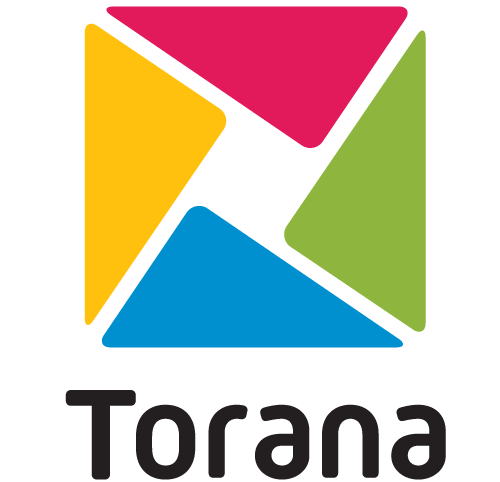
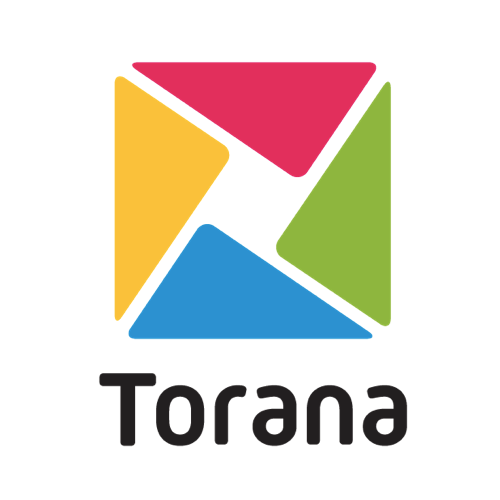
toranaのロゴ背景を白にする

diff --git a/docs/2022online/index.html b/docs/2022online/index.html
@@ -202,7 +202,7 @@
                         </a>
                         <a target="_blank" href="http://toysub.net/" class="block max-w-[200px] max-w-[150px]">
                           <span class="sponsor__image-wrapper">
-                            <img loading="lazy" class="sponsor__image" src="/2022online/assets/images/sponsor/torana.png?cachebuster=455749" alt=""/>
+                            <img loading="lazy" class="sponsor__image" src="/2022online/assets/images/sponsor/torana.png?cachebuster=456693" alt=""/>
                           </span>
                         </a>
                         <a target="_blank" href="https://group.wano.co.jp/" class="block max-w-[200px] max-w-[150px]">
